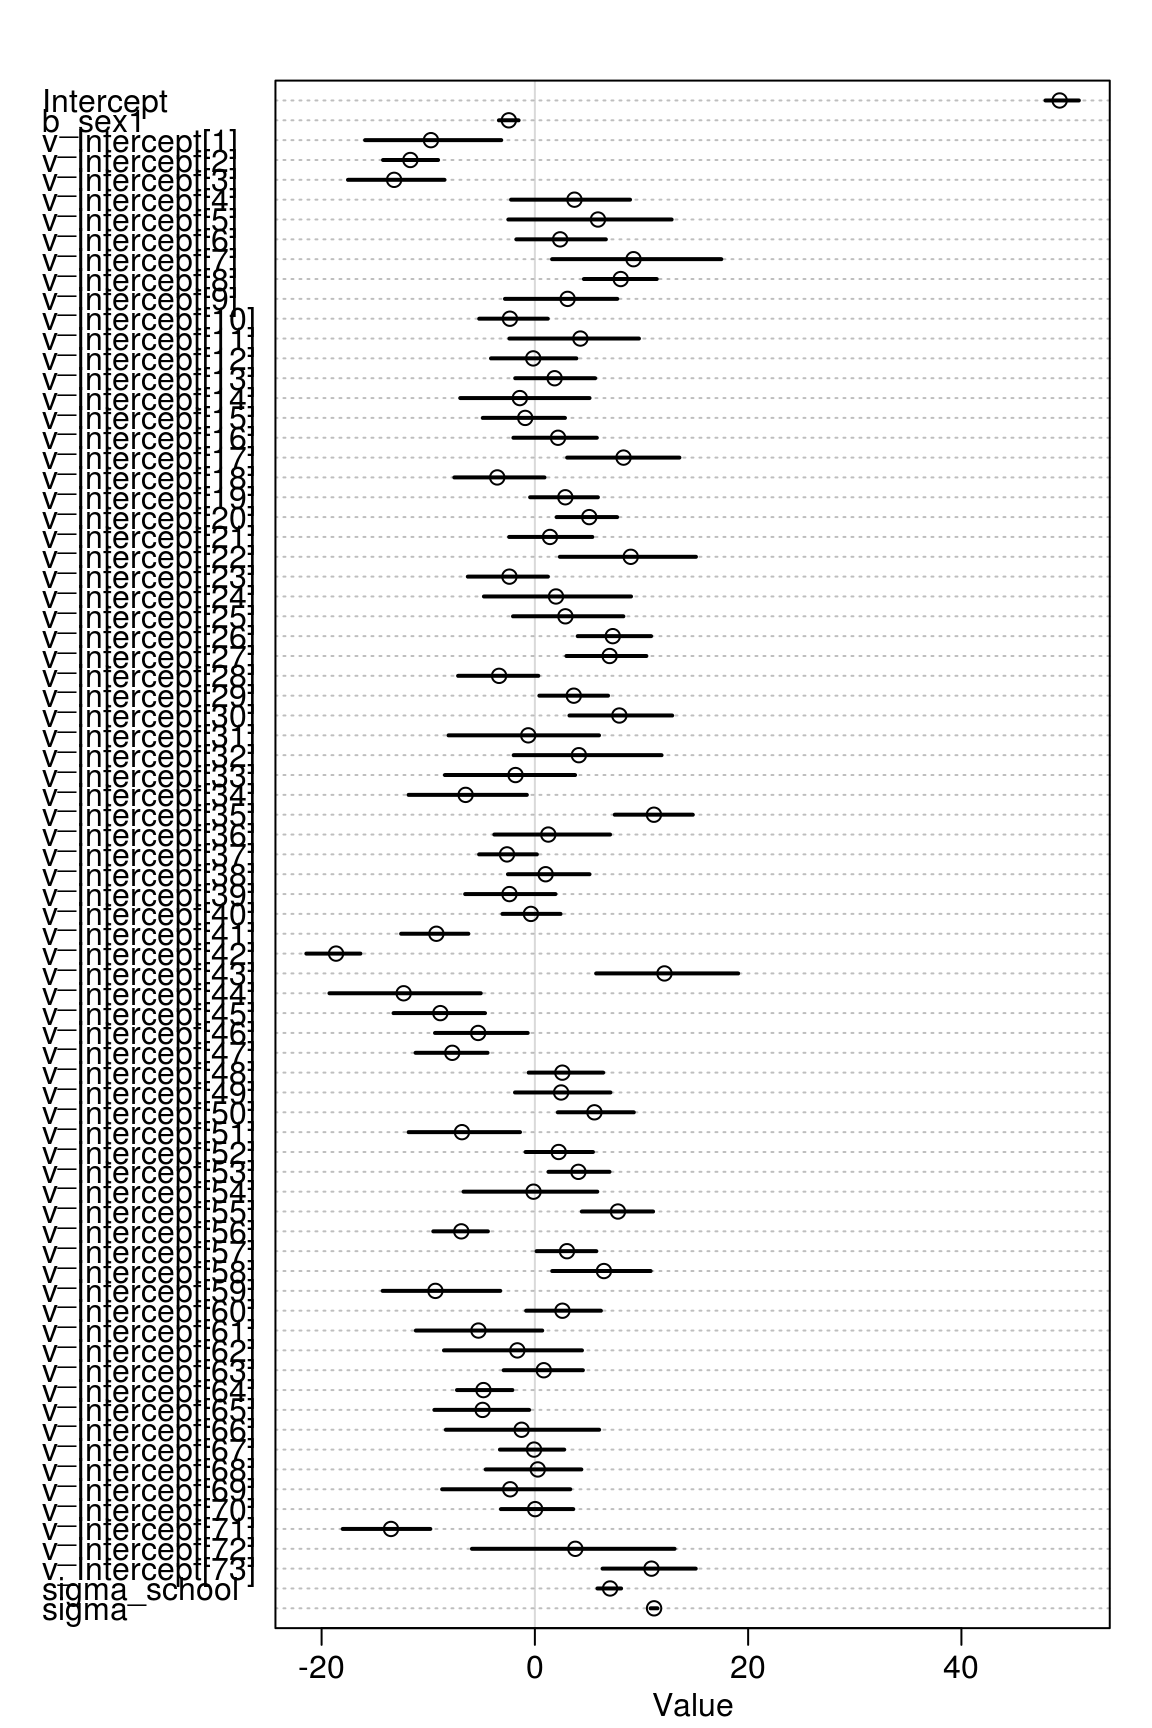
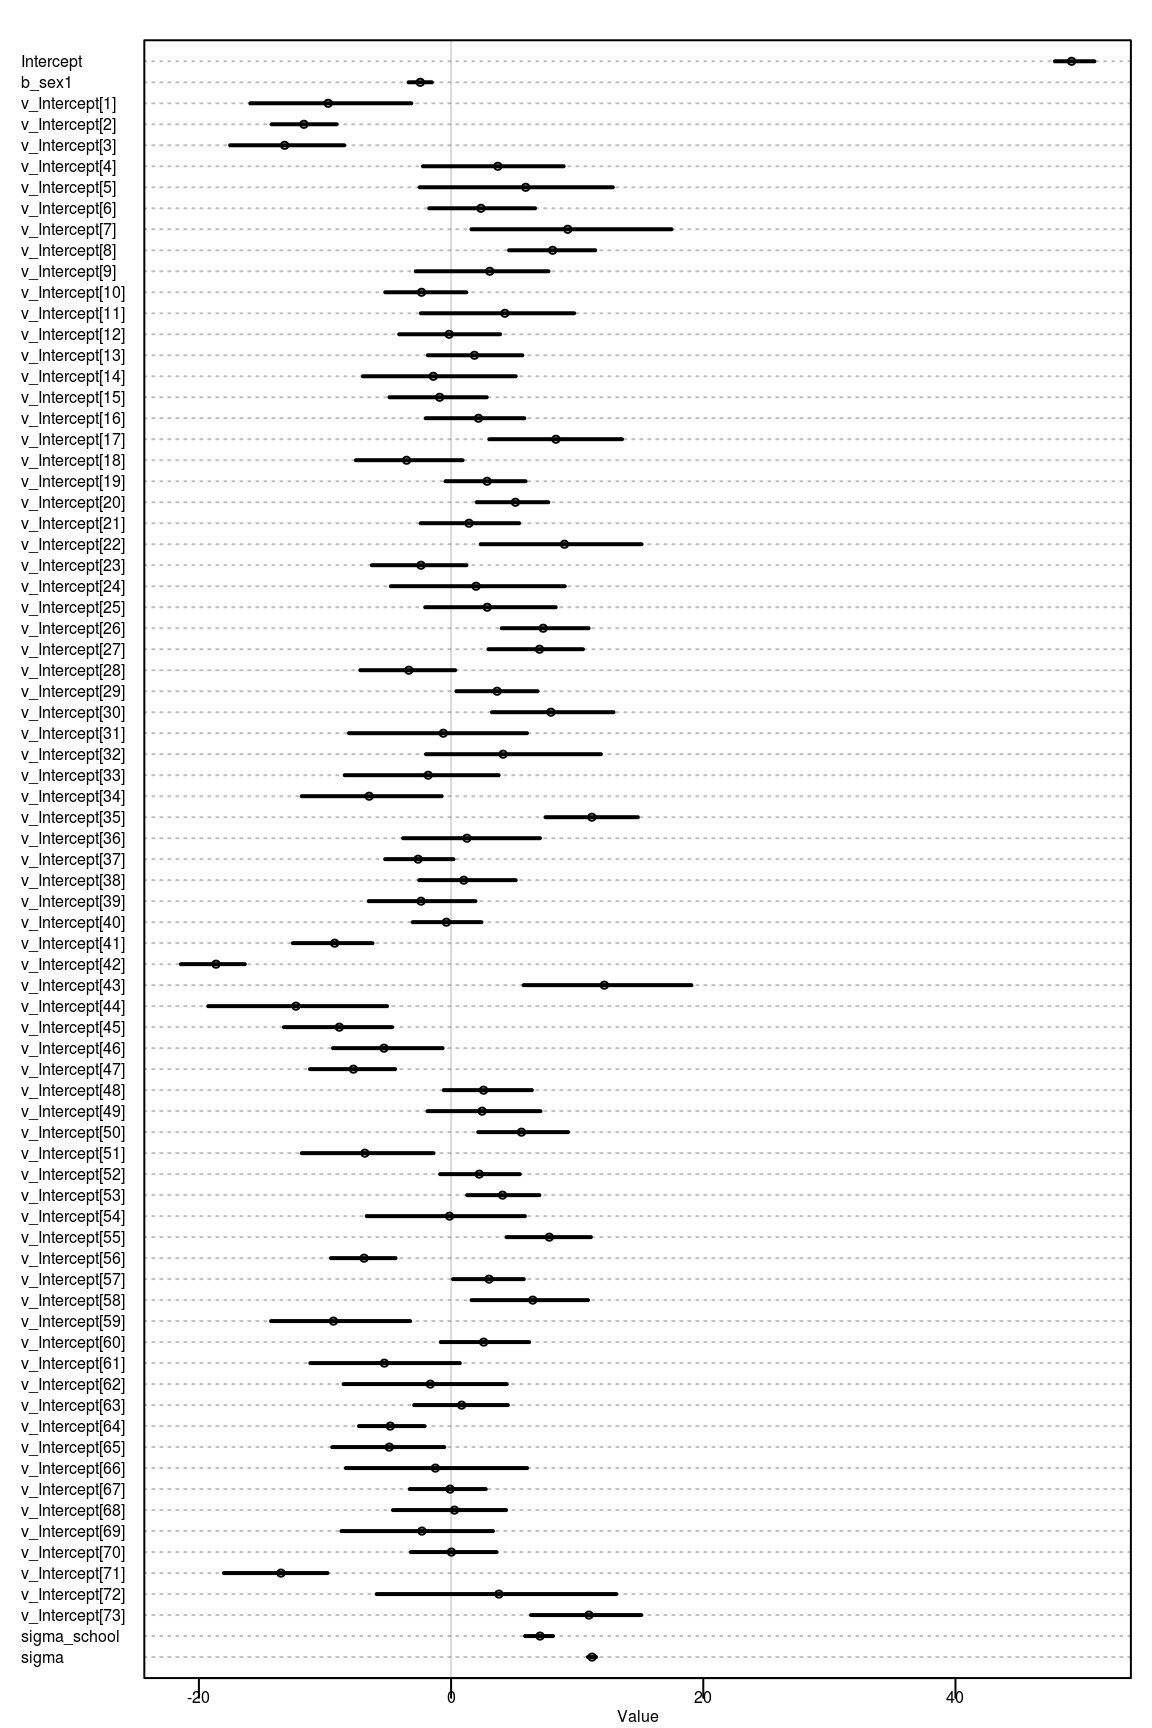
Update the book

Changed region(s): [[0.0, 0.0312, 1.0, 1.0], [0.1562, 0.9688, 0.1875, 1.0]]

diff --git a/hierarhilised-mudelid.html b/hierarhilised-mudelid.html
@@ -358,9 +358,7 @@ Joonis 15.3: Mudelite koefitsiendid.
 ), <span class="dt">data =</span> schools_f1<span class="op">$</span>d) <span class="co"># use the data table generated by glimmer() </span>
 <span class="co">#glimmer converts factors to Stan-eatable form.</span></code></pre></div>
 <p>Siin on v_Intercept kooli-spetsiifiline korrektsioonifaktor, mis tuleb liita üldisele Interceptile. mean(v_Intercept) == 0. Me eeldame, et korrektsioonid on normaaljaotusega. Alternatiivne viis seda mudelit kirjutada oleks <code>mu &lt;- Intercept[school] + b_sex1*sex1</code> ja see töötab smamoodi (nüüd on iga kooli intercept kohe eraldi).</p>
-<div class="sourceCode"><pre class="sourceCode r"><code class="sourceCode r"><span class="kw">plot</span>(<span class="kw">precis</span>(schools_m1, <span class="dt">depth =</span> <span class="dv">2</span>)) <span class="op">+</span><span class="st"> </span>
-<span class="st">  </span><span class="kw">theme</span>(<span class="dt">axis.text.x =</span> <span class="kw">element_text</span>(<span class="dt">size =</span> <span class="dv">8</span>))
-<span class="co">#&gt; NULL</span></code></pre></div>
+<div class="sourceCode"><pre class="sourceCode r"><code class="sourceCode r"><span class="kw">plot</span>(<span class="kw">precis</span>(schools_m1, <span class="dt">depth =</span> <span class="dv">2</span>), <span class="dt">cex =</span> <span class="fl">0.5</span>)</code></pre></div>
 <div class="figure" style="text-align: center"><span id="fig:unnamed-chunk-17"></span>
 <img src="15_hierarhiline_mudel_files/figure-html/unnamed-chunk-17-1.png" alt="Mudeli koefitsiendid" width="70%" />
 <p class="caption">

diff --git a/15_hierarhiline_mudel.md b/15_hierarhiline_mudel.md
@@ -241,9 +241,7 @@ Alternatiivne viis seda mudelit kirjutada oleks `mu <- Intercept[school] + b_sex
 
 
 ```r
-plot(precis(schools_m1, depth = 2)) + 
-  theme(axis.text.x = element_text(size = 8))
-#> NULL
+plot(precis(schools_m1, depth = 2), cex = 0.5)
 ```
 
 <div class="figure" style="text-align: center">
